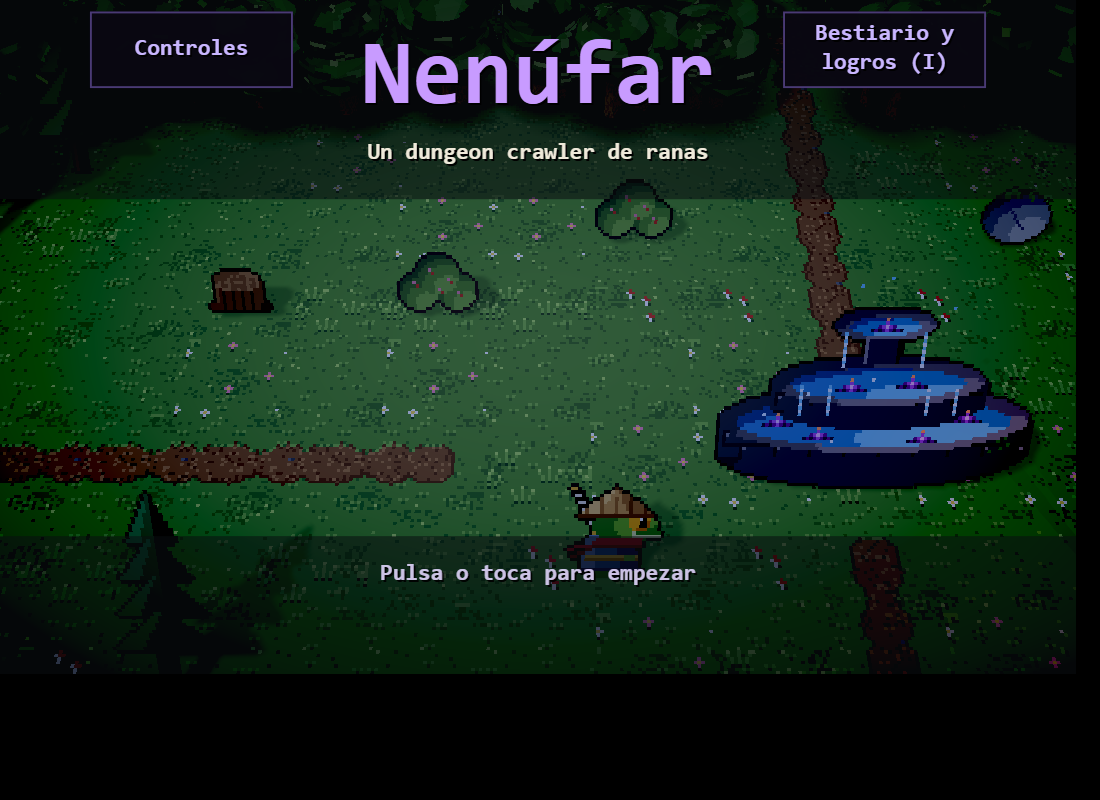
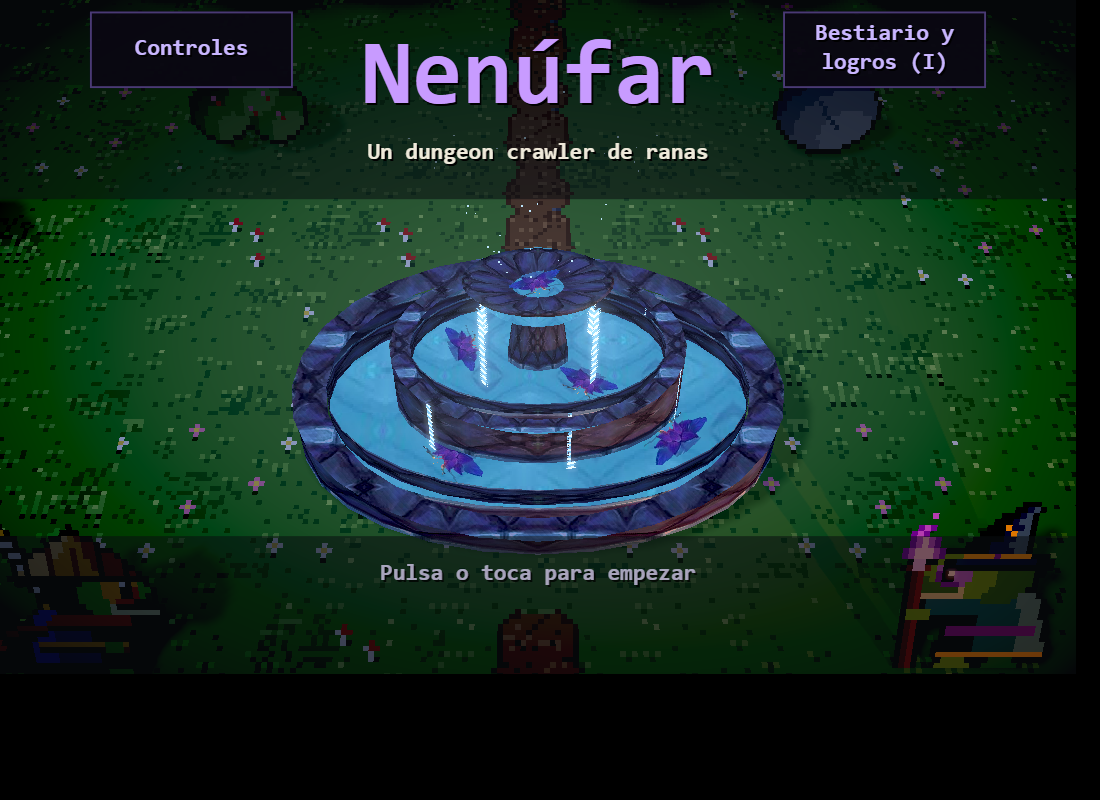
Fuente en 3D con volumen: tres pisos, piedra y agua con texturas de la imagen de Pedro, cascadas, nenúfares y chispas

diff --git a/src/render/mundo/fuente.ts b/src/render/mundo/fuente.ts
@@ -1,0 +1,232 @@
+import * as THREE from 'three';
+import type { Hd2dJson } from '../../core/types';
+import { ajustarPixelArt } from './texturas';
+
+type AjustesFuente = Hd2dJson['fuente'];
+
+const BASE = import.meta.env.BASE_URL;
+const CARAS = 28;
+
+/** Textura de `public/assets/sprites/fuente/` (recortes de la imagen de referencia), que se repite sin costuras. */
+function cargar(nombre: string, repetirX: number, repetirY: number): THREE.Texture {
+  const tex = new THREE.TextureLoader().load(`${BASE}assets/sprites/fuente/${nombre}.png`);
+  tex.wrapS = tex.wrapT = THREE.RepeatWrapping;
+  tex.repeat.set(repetirX, repetirY);
+  ajustarPixelArt(tex);
+  return tex;
+}
+
+/** Rayas verticales claras sobre transparente: el agua que cae de un piso a otro. */
+function texturaCascada(): THREE.Texture {
+  const lienzo = document.createElement('canvas');
+  lienzo.width = 8;
+  lienzo.height = 32;
+  const ctx = lienzo.getContext('2d')!;
+  for (let y = 0; y < 32; y++) {
+    ctx.fillStyle = y % 8 < 4 ? '#e4f6ff' : '#7cc4f0';
+    ctx.fillRect(2 + (y % 3 === 0 ? 1 : 0), y, 4, 1);
+  }
+  const tex = new THREE.CanvasTexture(lienzo);
+  tex.wrapS = tex.wrapT = THREE.RepeatWrapping;
+  ajustarPixelArt(tex);
+  return tex;
+}
+
+const perfil = (puntos: number[][]): THREE.Vector2[] =>
+  puntos.map(([r = 0, y = 0]) => new THREE.Vector2(r, y));
+
+/**
+ * Fuente de tres pisos de piedra, con agua que brilla y cae de uno a otro, nenúfares sobre el agua y chispas
+ * que suben de la taza. Las texturas salen de la imagen de referencia (ver tools/generadores/entorno/fuente_texturas.py).
+ * El origen es el centro de su base en el suelo; los pisos son elipses de semiejes `radioX` y `radioZ`.
+ */
+export function crearFuente(
+  a: AjustesFuente,
+  azar: () => number,
+  tamPunto: number,
+): { grupo: THREE.Group; actualizar: (tiempo: number) => void } {
+  const grupo = new THREE.Group();
+  // Los pisos se estiran a lo alto: vista desde arriba, la fuente se leía como una piscina baja.
+  grupo.scale.y = 1.4;
+  const piedra = new THREE.MeshLambertMaterial({
+    map: cargar('piedra', 4, 1),
+    side: THREE.DoubleSide,
+  });
+  const borde = new THREE.MeshLambertMaterial({
+    map: cargar('piedra', 3, 3),
+    side: THREE.DoubleSide,
+  });
+  const texAgua = cargar('agua', 3, 2);
+  // Sin luz propia: el agua brilla siempre (el bloom la recoge) y no pide una luz más a la sala.
+  const agua = new THREE.MeshBasicMaterial({ map: texAgua });
+  const rx = a.radioX;
+  const rz = a.radioZ;
+
+  const poner = (malla: THREE.Mesh, x = 0, y = 0, z = 0, sombra = true): THREE.Mesh => {
+    malla.position.set(x, y, z);
+    malla.castShadow = sombra;
+    malla.receiveShadow = true;
+    grupo.add(malla);
+    return malla;
+  };
+  /** Un piso: pared por fuera y por dentro, borde plano arriba y agua. Devuelve la altura del agua. */
+  const piso = (radio: number, suelo: number, techo: number, hondo: number): number => {
+    const pared = poner(
+      new THREE.Mesh(
+        new THREE.LatheGeometry(
+          perfil([
+            [radio, suelo],
+            [radio, techo],
+          ]),
+          CARAS,
+        ),
+        piedra,
+      ),
+    );
+    const dentro = poner(
+      new THREE.Mesh(
+        new THREE.LatheGeometry(
+          perfil([
+            [radio * 0.86, techo],
+            [radio * 0.86, techo - hondo],
+          ]),
+          CARAS,
+        ),
+        piedra,
+      ),
+    );
+    const anillo = poner(
+      new THREE.Mesh(new THREE.RingGeometry(radio * 0.86, radio, CARAS, 1), borde),
+      0,
+      techo,
+    );
+    anillo.rotation.x = -Math.PI / 2;
+    const alturaAgua = techo - hondo * 0.8;
+    const lamina = poner(
+      new THREE.Mesh(new THREE.CircleGeometry(radio * 0.86, CARAS), agua),
+      0,
+      alturaAgua,
+      0,
+      false,
+    );
+    lamina.rotation.x = -Math.PI / 2;
+    for (const m of [pared, dentro, anillo, lamina]) m.scale.set(rx, 1, rz);
+    return alturaAgua;
+  };
+  const aguaA = piso(1, 0, 0.36, 0.14);
+  const aguaB = piso(0.58, 0.3, 0.64, 0.12);
+
+  // Columna y taza de arriba
+  const columna = poner(
+    new THREE.Mesh(new THREE.CylinderGeometry(0.1, 0.14, 0.34, 10), piedra),
+    0,
+    0.73,
+    0,
+  );
+  columna.scale.set(rx * 0.9, 1, rz * 0.9);
+  const taza = poner(
+    new THREE.Mesh(
+      new THREE.LatheGeometry(
+        perfil([
+          [0.08, 0],
+          [0.28, 0.06],
+          [0.33, 0.12],
+          [0.28, 0.12],
+          [0, 0.07],
+        ]),
+        CARAS,
+      ),
+      piedra,
+    ),
+    0,
+    0.9,
+    0,
+  );
+  taza.scale.set(rx * 0.85, 1, rz * 0.85);
+  const aguaC = 0.99;
+  const laminaC = poner(
+    new THREE.Mesh(new THREE.CircleGeometry(0.27, 20), agua),
+    0,
+    aguaC,
+    0,
+    false,
+  );
+  laminaC.rotation.x = -Math.PI / 2;
+  laminaC.scale.set(rx * 0.85, 1, rz * 0.85);
+
+  // Cascadas: de la taza al piso de en medio y de este al de abajo; las rayas bajan sin parar.
+  const texCascada = texturaCascada();
+  texCascada.repeat.set(1, 3);
+  const materialCascada = new THREE.MeshBasicMaterial({
+    map: texCascada,
+    transparent: true,
+    side: THREE.DoubleSide,
+    depthWrite: false,
+  });
+  const cascada = (radio: number, de: number, abajo: number, n: number, giro: number): void => {
+    for (let i = 0; i < n; i++) {
+      const ang = giro + (i / n) * Math.PI * 2;
+      const alto = de - abajo;
+      const m = new THREE.Mesh(new THREE.PlaneGeometry(0.09, alto), materialCascada);
+      m.position.set(Math.cos(ang) * radio * rx, abajo + alto / 2, Math.sin(ang) * radio * rz);
+      m.rotation.y = -ang + Math.PI / 2;
+      grupo.add(m);
+    }
+  };
+  cascada(0.3, 1.0, aguaB, 4, Math.PI / 4);
+  cascada(0.58, 0.64, aguaA, 6, 0.3);
+
+  // Nenúfares tumbados sobre el agua de cada piso
+  const materialNenufar = new THREE.MeshBasicMaterial({
+    map: cargar('nenufar', 1, 1),
+    transparent: true,
+    alphaTest: 0.35,
+  });
+  const nenufar = (radio: number, ang: number, y: number, tam: number): void => {
+    const m = new THREE.Mesh(new THREE.PlaneGeometry(tam, tam * 0.56), materialNenufar);
+    m.rotation.set(-Math.PI / 2, 0, azar() * 6);
+    m.position.set(Math.cos(ang) * radio * rx, y + 0.012, Math.sin(ang) * radio * rz);
+    grupo.add(m);
+  };
+  for (const [radio, ang] of [
+    [0.62, 0.5],
+    [0.6, 2.2],
+    [0.58, 3.9],
+    [0.6, 5.3],
+    [0.2, 1.0],
+  ] as const) {
+    nenufar(radio, ang, aguaA, 0.46);
+  }
+  nenufar(0.3, 0.9, aguaB, 0.36);
+  nenufar(0.3, 3.5, aguaB, 0.36);
+  nenufar(0, 0, aguaC, 0.3);
+
+  // Chispas azules que suben de la taza
+  const posiciones = new Float32Array(a.gotas * 3);
+  const geoGotas = new THREE.BufferGeometry();
+  geoGotas.setAttribute('position', new THREE.BufferAttribute(posiciones, 3));
+  grupo.add(
+    new THREE.Points(
+      geoGotas,
+      new THREE.PointsMaterial({ color: 0xbfe8ff, size: tamPunto, sizeAttenuation: false }),
+    ),
+  );
+  const angulos = Float32Array.from({ length: a.gotas }, () => azar() * Math.PI * 2);
+  const fases = Float32Array.from({ length: a.gotas }, () => azar());
+
+  return {
+    grupo,
+    actualizar: (tiempo) => {
+      for (let i = 0; i < a.gotas; i++) {
+        const t = (tiempo / (a.vidaGota * 4) + (fases[i] ?? 0)) % 1;
+        const ang = angulos[i] ?? 0;
+        posiciones[i * 3] = Math.cos(ang) * (0.1 + 0.35 * t) * rx;
+        posiciones[i * 3 + 1] = 1.05 + 0.8 * t;
+        posiciones[i * 3 + 2] = Math.sin(ang) * (0.1 + 0.35 * t) * rz;
+      }
+      geoGotas.attributes.position!.needsUpdate = true;
+      texAgua.offset.set(tiempo * 0.03, tiempo * 0.02);
+      texCascada.offset.y = -tiempo * 1.2;
+    },
+  };
+}

diff --git a/src/render/mundo/mundo.ts b/src/render/mundo/mundo.ts
@@ -21,6 +21,7 @@ import {
   type MaterialesBosque,
   type SombraSuelo,
 } from './borde';
+import { crearFuente } from './fuente';
 import { crearHundidos } from './hundidos';
 import { crearBarrera } from './modelos';
 import { ajustarPixelArt, cuentaColores, pintar, textura } from './texturas';
@@ -73,6 +74,7 @@ export interface VistaSala {
   /** Lo que se ve de cada objeto (modelo o sprite), para rehacerlo si cambia (el cofre al abrirse, el portal). */
   objetos: Map<ObjetoSala, THREE.Object3D>;
   piezas: Map<ObjetoSala, Pieza>;
+  fuente: { actualizar: (tiempo: number) => void } | null;
   hundidos: { actualizar: (tiempo: number) => void } | null;
   /** Luces puntuales de sus objetos (hoguera, candelabros, portal) y dónde están. */
   luces: { luz: LuzHd2d; x: number; z: number; fase: number }[];
@@ -296,6 +298,7 @@ export class Mundo {
       sala,
       objetos: new Map(),
       piezas: new Map(),
+      fuente: null,
       hundidos: null,
       luces: [],
       barreras: [],
@@ -425,22 +428,36 @@ export class Mundo {
     if (!z) return;
     const { imagenes, tam } = z;
     const nombre = o.inf.name;
-    const tiles = [o.sup, o.inf].filter((t): t is Tile => t !== null);
-    const lienzo = pintar(1, tiles.length, tam, () => {});
-    const pieza = { tiles, ctx: lienzo.getContext('2d')!, tex: textura(lienzo), frame: -1 };
-    pintarPieza(pieza, imagenes, tam, 0);
-    if (tiles.some((t) => t.frames)) v.piezas.set(o, pieza);
-    const plano = carton(
-      new THREE.MeshLambertMaterial({ map: pieza.tex, alphaTest: 0.5, side: THREE.DoubleSide }),
-      1,
-      tiles.length,
-      0,
-    );
-    plano.position.set(o.x + 0.5, 0, o.y + 0.85);
-    plano.rotation.x = -this.giro;
-    plano.scale.y = this.estirar;
-    v.objetos.set(o, plano);
-    v.grupo.add(plano);
+    let obj: THREE.Object3D;
+    if (nombre.startsWith('fuente_')) {
+      // La fuente ocupa tres casillas; el modelo va con la del centro y choca con su elipse (ver chocarConElipse).
+      if (nombre !== 'fuente_cen_inf') return;
+      const f = this.a.fuente;
+      // Píxeles del dibujo por píxel lógico de la sala.
+      const escala = (this.sala2d.ancho * this.renderer.domElement.width) / innerWidth / SALA_ANCHO;
+      const fuente = crearFuente(f, v.azar, escala);
+      fuente.grupo.position.set(o.x + 0.5, 0, o.y + f.centroZ);
+      v.fuente = fuente;
+      obj = fuente.grupo;
+    } else {
+      const tiles = [o.sup, o.inf].filter((t): t is Tile => t !== null);
+      const lienzo = pintar(1, tiles.length, tam, () => {});
+      const pieza = { tiles, ctx: lienzo.getContext('2d')!, tex: textura(lienzo), frame: -1 };
+      pintarPieza(pieza, imagenes, tam, 0);
+      if (tiles.some((t) => t.frames)) v.piezas.set(o, pieza);
+      const plano = carton(
+        new THREE.MeshLambertMaterial({ map: pieza.tex, alphaTest: 0.5, side: THREE.DoubleSide }),
+        1,
+        tiles.length,
+        0,
+      );
+      plano.position.set(o.x + 0.5, 0, o.y + 0.85);
+      plano.rotation.x = -this.giro;
+      plano.scale.y = this.estirar;
+      obj = plano;
+    }
+    v.objetos.set(o, obj);
+    v.grupo.add(obj);
     const luz = this.a.luces[nombre];
     v.luces = v.luces.filter((l) => l.x !== o.x + 0.5 || l.z !== o.y + 0.6);
     if (luz) {
@@ -598,6 +615,7 @@ export class Mundo {
   private animar(v: VistaSala, tiempo: number): void {
     const z = this.zona;
     if (z) for (const p of v.piezas.values()) pintarPieza(p, z.imagenes, z.tam, tiempo);
+    v.fuente?.actualizar(tiempo);
     v.hundidos?.actualizar(tiempo);
     for (let i = 0; i < this.puntuales.length; i++) {
       const luz = this.puntuales[i]!;

diff --git a/src/core/types.ts b/src/core/types.ts
@@ -384,10 +384,13 @@ export interface Hd2dJson {
   /** Lo que queda entre la cámara y la heroína se vuelve transparente: radio en casillas alrededor de ella, casillas por delante desde las que empieza y opacidad que se quita como mucho. */
   transparencia: { radio: number; margen: number; maximo: number };
   fuente: {
-    /** Cuánto baja la fuente dentro de su casilla central y semiejes de la elipse con la que choca, en casillas. */
+    /** Cuánto baja la fuente dentro de su casilla central y semiejes de su base (y de la elipse con la que choca), en casillas. */
     centroZ: number;
     radioX: number;
     radioZ: number;
+    /** Chispas que suben de la taza y su ritmo (cuanto mayor, más despacio). */
+    gotas: number;
+    vidaGota: number;
   };
   /**
    * Portada: una sala de una zona en 3D con las ranas y dos monstruos. `encuadre`, punto al que mira la cámara

diff --git a/tools/generadores/entorno/fuente_texturas.py b/tools/generadores/entorno/fuente_texturas.py
@@ -1,0 +1,44 @@
+"""Texturas de la fuente en 3D, recortadas de la imagen de referencia (la 14 de `docs/superpowers/mockups/cauce-seco-referencias`):
+piedra y agua en mosaico espejo (para que no se vea la costura al envolverlas) y un nenúfar con transparencia.
+Salida: public/assets/sprites/fuente/{piedra,agua,nenufar}.png. Uso (desde la raíz del repo): python tools/generadores/entorno/fuente_texturas.py"""
+import os
+
+import numpy as np
+from PIL import Image, ImageEnhance, ImageFilter, ImageOps
+
+REPO = os.path.abspath(os.path.join(os.path.dirname(os.path.abspath(__file__)), "..", "..", ".."))
+REF = os.path.join(REPO, "docs", "superpowers", "mockups", "cauce-seco-referencias", "14-fuente.png")
+SALIDA = os.path.join(REPO, "public", "assets", "sprites", "fuente")
+
+
+def espejo(im):
+    """El recorte y sus reflejos, en 2x2: se repite sin costuras."""
+    w, h = im.size
+    o = Image.new("RGB", (2 * w, 2 * h))
+    o.paste(im, (0, 0)); o.paste(ImageOps.mirror(im), (w, 0))
+    o.paste(ImageOps.flip(im), (0, h)); o.paste(ImageOps.flip(ImageOps.mirror(im)), (w, h))
+    return o
+
+
+def nenufar(im):
+    """Solo la flor y sus hojas (azul violeta y rosa), con el agua de alrededor transparente."""
+    a = np.array(im).astype(int)
+    r, g, b = a[:, :, 0], a[:, :, 1], a[:, :, 2]
+    flor = ((b > r + 25) & (g < 125) & (b > 110)) | ((r > 150) & (g > 90) & (b < 150))  # morado/azul y pistilos
+    mascara = Image.fromarray((flor * 255).astype("uint8")).filter(ImageFilter.MaxFilter(3)).filter(ImageFilter.MinFilter(3))
+    # Fuera de una elipse alrededor de la flor quedan restos de otras flores y de las piedras: se descartan
+    yy, xx = np.mgrid[0:im.height, 0:im.width]
+    dentro = ((xx - im.width / 2) / (im.width * 0.5)) ** 2 + ((yy - im.height * 0.58) / (im.height * 0.5)) ** 2 <= 1
+    out = im.convert("RGBA")
+    out.putalpha(Image.fromarray((np.array(mascara) * dentro).astype("uint8")))
+    return out
+
+
+if __name__ == "__main__":
+    os.makedirs(SALIDA, exist_ok=True)
+    ref = Image.open(REF).convert("RGB")
+    # La piedra de la imagen es oscura y, con la luz de la sala, se hunde: se aclara antes de guardarla
+    espejo(ImageEnhance.Brightness(ref.crop((330, 520, 430, 585)).resize((96, 62), Image.LANCZOS)).enhance(2.1)).save(os.path.join(SALIDA, "piedra.png"))
+    espejo(ref.crop((282, 444, 338, 472)).resize((64, 32), Image.LANCZOS)).save(os.path.join(SALIDA, "agua.png"))
+    nenufar(ref.crop((330, 425, 445, 490)).resize((96, 54), Image.LANCZOS)).save(os.path.join(SALIDA, "nenufar.png"))
+    print("ok")

diff --git a/CLAUDE.md b/CLAUDE.md
@@ -21,7 +21,7 @@ Si el diseño y este archivo discrepan, manda el documento; avisa de la discrepa
 - **Monstruos nuevos (2026-10-30), rama `monstruos-nuevos`: entrega 2 del Cauce Seco** (plan en `docs/superpowers/plans/2026-10-30-monstruos-nuevos.md`). **Jabalí** y **Cuervo** entran en el Bosque y el **Lobo** en la Cripta; el **Espectro** sale de la Cripta y queda con `oculto: true` hasta el Cauce Seco (así «Naturalista» no lo pide). Sprites de 32×32 (el jabalí, 40×40) dibujados por script (`jabali.py`, que reduce su imagen de referencia y la repinta con la paleta del juego; `criaturas.py`: cuervo; `humanoides.py`: lobo), con las imágenes de `docs/superpowers/mockups/cauce-seco-referencias/` como guía; imagen de revisión en `docs/previews/monstruos_nuevos_x4.png`. Para regenerar solo los monstruos: `.venv\Scripts\python.exe tools\generadores\monstruos\generar.py` (nunca `generar_todo.py`) y luego `git checkout` de lo que reescriba sin necesidad (`espectro.png` y `golem.png` cambian de bytes aunque sean iguales). El bestiario pasa a 7 casillas por fila (21). Reequilibrado: lobo 54 PV/ataque 15/velocidad 8, jabalí 25 PV/ataque 7, cuervo ataque 6, PV iniciales de la ronin 46 y de la maga 40, ataque de monstruos en Fácil ×1,08 y recuperación en Difícil 0,44. Resultado (ronin / maga): Fácil 70 / 69, Normal 49 / 53, Difícil 32 / 32. Nota para el Cauce Seco: `tests/monstruos.test.ts` exige que los Dragones negros compartan sprite. **El arte lo tiene que aprobar Pedro** (el jabalí se rehízo cuatro veces tras sus comentarios; la comparación con su imagen está en `docs/previews/jabali_comparacion.png`).
 - **Arte del Cauce Seco (2026-10-30), rama `arte-cauce-seco` (PR #14, sin fusionar): entrega 3a** (plan en `docs/superpowers/plans/2026-10-30-arte-cauce-seco.md`). Solo arte, **sin datos todavía** (las fichas, los grupos y el equilibrado van en la 3d). Sprites nuevos en `public/assets/sprites/monstruos/`: `acolito` (40×40, reducido de su referencia), `salamandra` (40×40, a mano: oscura, con grietas de brasa y la cola ardiendo), `sacerdote` (48×48, a mano: alto y flaco, brazos abiertos, mangas rasgadas, ojos de rendija y el sol roto detrás; rehecho tras decir Pedro que no daba miedo), `oni` (48×48, reducido de su referencia con la máscara de calavera repintada encima y la sombra del suelo quitada como fondo) y `dragon_fuego` (64×48, reducido de su referencia; **recurso sin uso**: el Dragón negro se mantiene en las cuatro zonas). El **Dragón negro** se rehízo más fiero (cuernos de hueso, colmillos, cuerpo más negro, halo rojo en el ojo, brasas). `tools/generadores/monstruos/reducir.py` es el método para sacar un sprite de una imagen (quita el fondo, reduce con `brillo`/`saturacion`/`contraste`, limpia la silueta y pone contorno); el aviso «toca el borde del cuadro» de `generar.py` vigila los monstruos de `VIGILADOS`. Pedro pidió que el arte sea **sobrio y oscuro, no infantil** (sin ojos grandes y redondos ni naranjas lisos). Test de formato: `tests/hojas_cauce.test.ts`. Imagen de revisión: `docs/previews/cauce_monstruos_x3.png`. **El arte lo tiene que aprobar Pedro.**
 - **La zona del Cauce Seco (2026-10-30), rama `cauce-seco-zona` (sale de `arte-cauce-seco`): entrega 3b, hecha y subida, sin fusionar ni activar** (plan en `docs/superpowers/plans/2026-10-30-zona-cauce-seco.md`). **La zona sigue sin estar en `zonas.json`**: `cauce` solo aparece en `hd2d.json`, `sonido.json`, los tilesets, las plantillas, `main.ts` (visor de desarrollo) y los tests. Qué hay: tileset `cauce` (`tools/generadores/entorno/cauce.py`: muros de obsidiana violácea con hornacina de aro de fuego y veta de brasa, puertas con aro de fuego, suelo de lecho pardo con guijarros y brasas; pilar con grieta de brasa, roca, escombros, columna rota y `brasero` de dos fotogramas), autotiles `lecho` y `lava` (`zonas_auto.py`, `cauce_auto()`), 8 plantillas (`plantillas_cauce.json`, símbolo `B` = brasero; la fuente del descanso es el único agua, decisión mía **sin confirmar con Pedro**), aspecto 3D (`zonas.cauce` y `luces.brasero` en `hd2d.json`) y una pista de música `cauce` (tempo 90, re frigio, tres voces; **no se ha oído**, solo se comprobó que está bien formada). **Cómo verla:** `npm run dev` y abrir `?portada=cauce_combate_01` (o `cauce_descanso_01`, `cauce_jefe_01`, `cauce_tesoro_01`…); `&vista=x,z,ancho` acerca la cámara (solo en desarrollo). Imagen de revisión: `docs/previews/cauce_zona_x2.png`. **El mapa 3D cambió para todas las zonas (2026-10-30):** los muros del borde son cajas con el tile de remate arriba y el de cara en los lados (antes, ruido de tres colores; se quitaron `hiladas`, `porCasilla`, `irregular`, `salida` y `hueco` de `borde` en `hd2d.json`) y **todos los objetos son sprites de pie con su dibujo real** (se borró `crearModelo` y sus modelos de formas sencillas; quedan solo las barreras de las salidas, `crearBarrera`). Pedro lo pidió: «quiero que se vea como lo hemos diseñado». **Sin probar en el móvil ni en una partida** (solo con Edge sin cabeza en la portada, y no se vieron las Ruinas ni la Cripta). Pendiente: las puertas abiertas con su arco no se ven en 3D (se pintan como suelo). Falta 3c (equipo de nivel 4, textos, bestiario) y 3d (activar, fichas de datos, equilibrado).
-- **Jefes rehechos desde imágenes de Pedro (2026-10-30), en `cauce-seco-zona`:** el arte de los jefes sale ahora de sus imágenes de referencia (`docs/superpowers/mockups/cauce-seco-referencias/8` a `13`) con `reducir.py`, un módulo por jefe en `tools/generadores/monstruos/` y registrado en `PROPIOS`: `guardian_bosque.py` (clave `rey_limo`, que **ya se llama «Guardián del Bosque» en `monstruos.json`**, con su aviso y `tests/jefes.test.ts` cambiados; 64×48), `golem.py` (48×48), `reina_arana.py` (64×48), `senor_cripta.py` (48×48, imagen de la calavera con espada con la figura separada del fondo con un contorno a mano) y `rey_sin_charca.py` (64×48). Pedro: «los jefes con corona son muy infantiles», «quiero que se sientan jefes amenazantes, guardianes de su zona». Trucos que funcionaron: paleta fija (si no, el turquesa y el negro se hunden), afilar antes de reducir, dibujar a mano lo que se pierde (cuchillas de la cresta, calavera y ojos), recortar o comprimir la figura para ganar píxeles de ancho. Galería: `docs/previews/todos_monstruos.png`. **Fuente nueva (2026-10-30):** el sprite de la fuente de descanso (`fountain()` en `tools/generadores/entorno/comunes.py`, 96×64) se dibujó a mano con las formas de la imagen `14-fuente.png` (tres pisos de piedra con juntas, cascadas animadas, nenúfares morados, chispas); reducir la imagen no daba detalle a ese tamaño. En 3D es ahora un sprite de pie como los demás objetos: se borró `src/render/mundo/fuente.ts` y de `hd2d.json` solo quedan `centroZ`, `radioX` y `radioZ` de `fuente` (la colisión). Captura: `docs/previews/fuente_3d.png`. Límite: en combate cada sprite se dibuja al doble y por encima solo cabe hasta ~42 px (nombre y barra de turnos), así que un cuadro mayor de 48 de alto no sirve. **El Señor de la Cripta (negro, gris y rojo) y el Rey sin Charca (negro con fuego morado) ya no se parecen tanto, y el diseño dice que uno se transforma en el otro: Pedro no lo ha comentado.**
+- **Jefes rehechos desde imágenes de Pedro (2026-10-30), en `cauce-seco-zona`:** el arte de los jefes sale ahora de sus imágenes de referencia (`docs/superpowers/mockups/cauce-seco-referencias/8` a `13`) con `reducir.py`, un módulo por jefe en `tools/generadores/monstruos/` y registrado en `PROPIOS`: `guardian_bosque.py` (clave `rey_limo`, que **ya se llama «Guardián del Bosque» en `monstruos.json`**, con su aviso y `tests/jefes.test.ts` cambiados; 64×48), `golem.py` (48×48), `reina_arana.py` (64×48), `senor_cripta.py` (48×48, imagen de la calavera con espada con la figura separada del fondo con un contorno a mano) y `rey_sin_charca.py` (64×48). Pedro: «los jefes con corona son muy infantiles», «quiero que se sientan jefes amenazantes, guardianes de su zona». Trucos que funcionaron: paleta fija (si no, el turquesa y el negro se hunden), afilar antes de reducir, dibujar a mano lo que se pierde (cuchillas de la cresta, calavera y ojos), recortar o comprimir la figura para ganar píxeles de ancho. Galería: `docs/previews/todos_monstruos.png`. **Fuente nueva (2026-10-30), 3D con volumen:** la fuente de descanso es un modelo 3D de tres pisos (`src/render/mundo/fuente.ts`: piedra con juntas, agua que brilla sin luz propia, cascadas que bajan, nenúfares tumbados sobre el agua y chispas que suben de la taza), con texturas recortadas de la imagen de Pedro `14-fuente.png` por `tools/generadores/entorno/fuente_texturas.py` (`public/assets/sprites/fuente/piedra.png`, `agua.png`, `nenufar.png`). Es el único objeto que sigue siendo un modelo 3D (con las barreras de las salidas); los demás son sprites de pie. Un primer intento como sprite plano (reduciendo la imagen y luego dibujándola a mano en `fountain()` de `comunes.py`, 96×64) le pareció «cutre» a Pedro: sin detalle y sin volumen. El sprite de `fountain()` queda solo para las vistas previas 2D. La colisión sigue siendo la elipse de `centroZ`, `radioX` y `radioZ` de `fuente` en `hd2d.json`. Captura: `docs/previews/fuente_3d.png` (`?portada=bosque_descanso_01&vista=10.5,5.4,6` en desarrollo). Límite: en combate cada sprite se dibuja al doble y por encima solo cabe hasta ~42 px (nombre y barra de turnos), así que un cuadro mayor de 48 de alto no sirve. **El Señor de la Cripta (negro, gris y rojo) y el Rey sin Charca (negro con fuego morado) ya no se parecen tanto, y el diseño dice que uno se transforma en el otro: Pedro no lo ha comentado.**
 - **Menús nuevos de combate e inventario (2026-10-26)**, rama `menus-nuevos`: estilo de Octopath (doble filete con rombos, brillo y rombo de cursor) en lavanda de Nenúfar, con la barra de PX en verde (`src/render/marco.ts`, colores en `PALETA`). Combate: panel abajo en dos columnas (lista con el coste y, a la derecha, qué hace lo elegido y la ficha de la heroína); la escena sube para no tapar a ningún jefe; sin botón «i» (la descripción está siempre a la vista). Inventario: lista a la izquierda (Heroína, Objetos, Equipo, Mejorar, Ajustes; Seguir y Salir abajo) y la sección a la derecha. Toque: dos toques (el primero elige y dice qué hace) en habilidades, objetos y enemigo; uno en lo demás (`src/core/menu.ts`). Diseño en `docs/superpowers/specs/2026-10-26-menus-design.md`, bocetos en `docs/superpowers/mockups/`; la disposición A (lista junto a quien actúa) queda como idea.
 - **Estilo lavanda en todas las pantallas (2026-10-27), rama `estilo-pantallas`.** Elegir rana, nombre, dificultad, puntos, equipo, portada, bestiario y logros, controles, mensajes, cartel de victoria, avisos del HUD y minimapa usan `src/render/marco.ts` (`dibujarFondo`, `dibujarCabecera`, `dibujarCaja`, `dibujarMarco`, `dibujarFila`, `PALETA`). `dibujarMenu` (botones) ya pinta cajas lavanda; `rectOpcion` sigue en uso. Quedan dorados solo en arte (mochila, modelos 3D). **Niebla (2026-10-27):** en el mapa el desenfoque ya no sigue a la heroína: la zona jugable se ve nítida y solo se emborronan los árboles de alrededor (`src/render/mundo/desenfoque.ts`, números en `bordes` de `hd2d.json`: `muro` 1, `fuerza` 6; con `muro` 2 la heroína sale borrosa al pegarse al borde). El combate y la portada siguen con el tilt-shift.
 - **Pantalla completa y sala grande (2026-10-27), rama `pantalla-completa`, publicada.** El mapa 3D y el canvas 2D cubren toda la ventana. La sala es de 21×13 tiles (672×416, `SALA_ANCHO`/`SALA_ALTO` en `src/render/pantalla.ts`) y se escala a todo lo que cabe, sin múltiplo entero. El canvas 2D tiene dos formas de colocarse (`fijarModo`, `colocarContexto`, `aLogico`): «ventana» (el mapa: HUD arriba a los lados, minimapa a la izquierda de la mochila con escala entera según el ancho libre, `ESCALA_HUD` 0,75) y «menú» (todo lo demás: la interfaz de 480×352 centrada; los fondos llenan `area`). Cada escena dice con `ventana` si dibuja en coordenadas de ventana y con `conMundo` si usa el 3D (si no, se oculta). El panel de acción del combate se dibuja a `PANEL_ESCALA` (`aPanel` para el toque; 0,8 se quedaba pequeño para el dedo, desde 2026-10-29 es 1). Decorado de fuera de la sala en `crearExterior` (`borde.ts`, `exterior` de `hd2d.json`). Las plantillas (24) se ensancharon con un script y se les repartió decorado al azar con semilla: sin retocar a mano. Pendiente: el fundido entre salas solo cubre la ventana del mapa pero no probado en móvil; Ruinas y Cripta, exterior muy plano; Pedro tiene que probarlo en el móvil.

diff --git a/docs/superpowers/specs/2026-10-30-cauce-seco-design.md b/docs/superpowers/specs/2026-10-30-cauce-seco-design.md
@@ -172,5 +172,5 @@ Los cofres de cada zona dan objetos de un nivel (Bosque 1, Ruinas 2, Cripta 3). 
 - **Los cinco jefes se rehacen a partir de imágenes de Pedro** (Guardián del Bosque, Golem, Reina Araña, Señor de la Cripta y Rey sin Charca): sobrios, oscuros y amenazantes, sin coronas. Ver `CLAUDE.md` y `docs/previews/todos_monstruos.png`. El Rey Limo pasa a ser un gusano-dragón cubierto de musgo y se llama **«Guardián del Bosque»** (clave `rey_limo`).
 - **La zona (3b) está hecha pero sin activar:** tileset `cauce`, autotiles `lecho` y `lava`, ocho plantillas, aspecto 3D, luz y modelo del brasero, y una pista de música. Imagen de revisión: `docs/previews/cauce_zona_x2.png`.
 - **El mapa 3D de todas las zonas se ve como el arte:** los muros del borde llevan el tile de remate y el de cara (antes, ruido), y los objetos son sprites de pie con su dibujo (antes, modelos de formas sencillas). Decisión de Pedro.
-- **La fuente de descanso se rehízo** con una imagen de Pedro (tres pisos, nenúfares morados) y se ve como sprite en 3D en todas las zonas.
+- **La fuente de descanso se rehízo** con una imagen de Pedro (tres pisos, nenúfares morados): modelo 3D con volumen y texturas recortadas de la imagen, en todas las zonas.
 - **Sin decidir:** si la fuente del descanso del Cauce Seco lleva agua azul (así está), y cómo se relacionan el arte del Señor de la Cripta y el del Rey sin Charca, que se transforman uno en otro.
